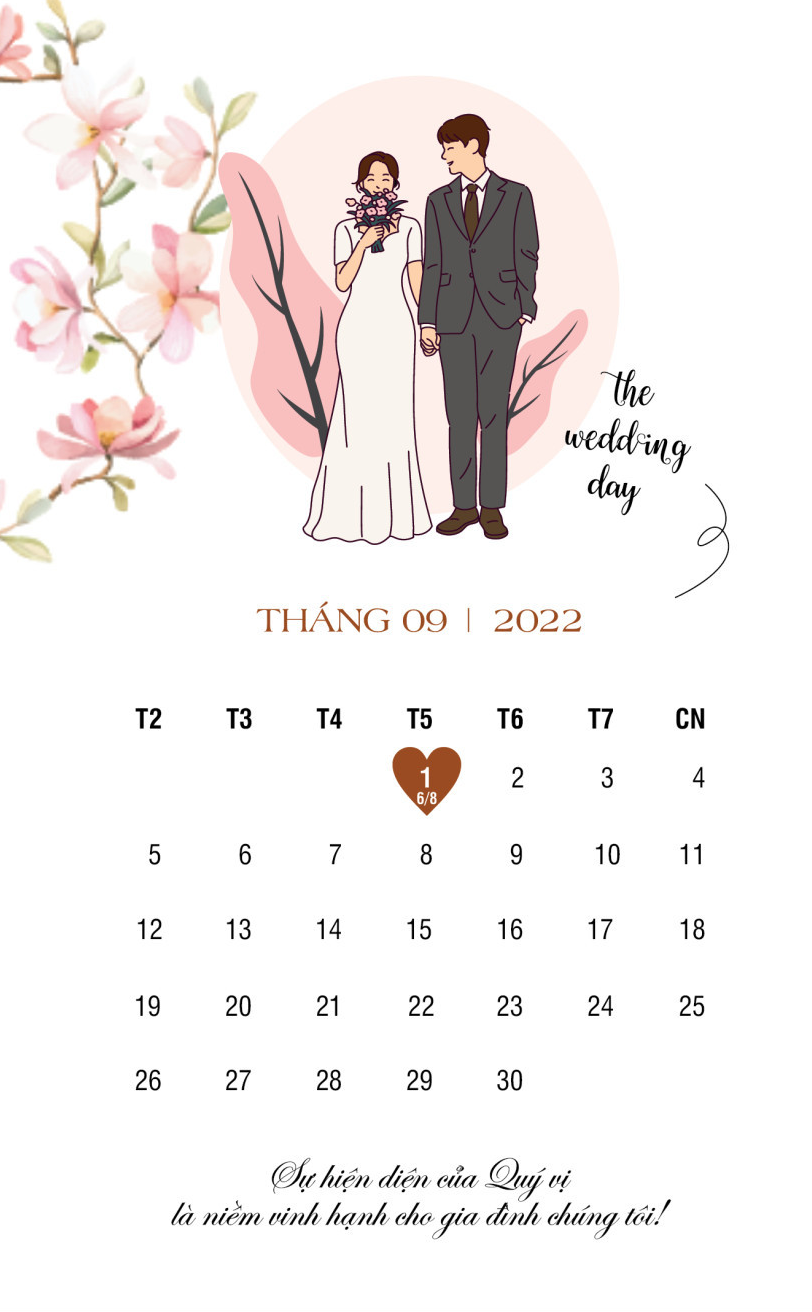
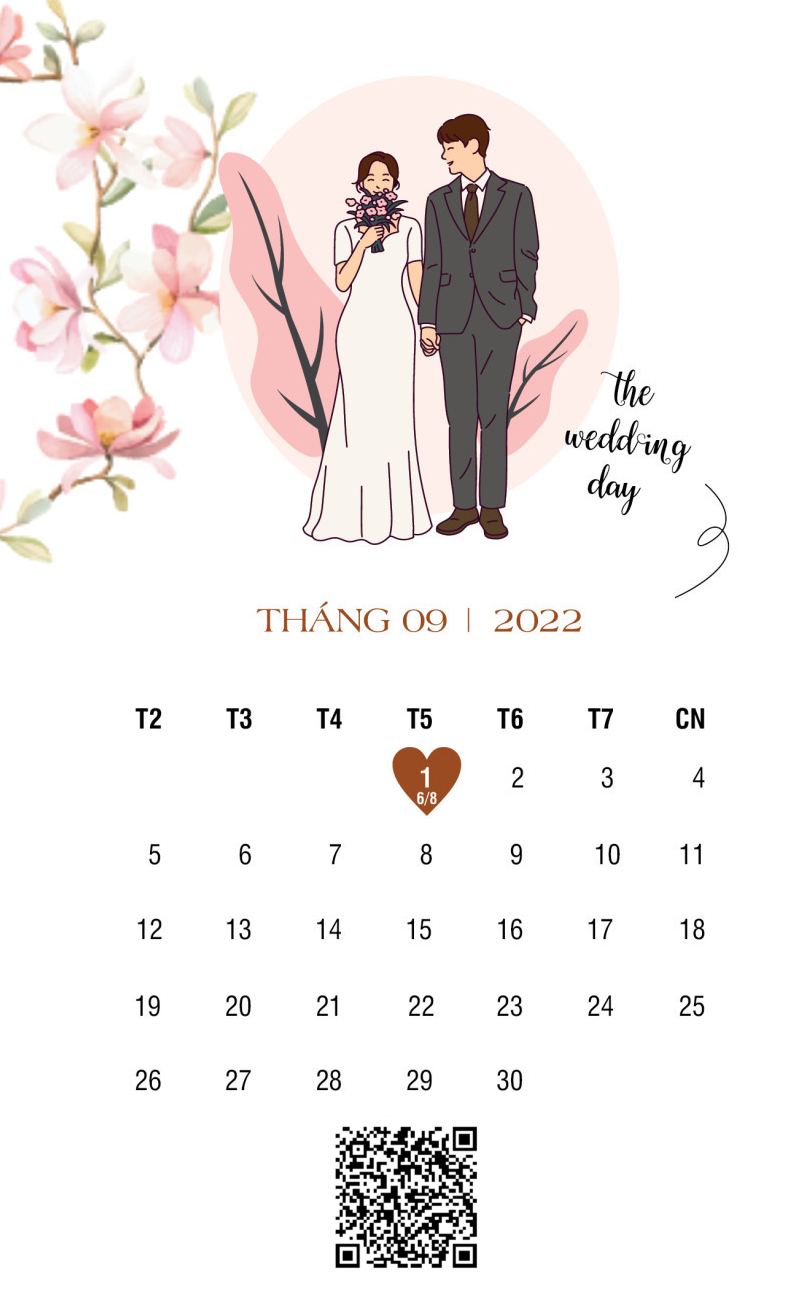
update

Changed region(s): [[0.2155, 0.8438, 0.8313, 0.9688]]

diff --git a/src/components/schedule/index.js b/src/components/schedule/index.js
@@ -6,32 +6,32 @@ const Schedule = () => {
       <div className="timeline">
         <div className="container right">
           <div className="content">
-            <h2 className="dark:text-black">8h20 9/4/2022</h2>
-            <p className="dark:text-black">Xuất phát dẫn lễ</p>
+            <h2 className="dark:text-black">17h00 - 19h45 <div><small> 31/08/2022</small></div></h2>
+            <p className="dark:text-black">Mời khách bữa cơm thân mật</p>
           </div>
         </div>
         <div className="container left">
           <div className="content">
-            <h2 className="dark:text-black">16h 9/4/2022</h2>
-            <p className="dark:text-black">Mời khách ăn bữa cơm thân mật</p>
+            <h2 className="dark:text-black">20h00 - 21h00 <div><small> 31/08/2022</small></div></h2>
+            <p className="dark:text-black">Tổ chức qua nhà gái quẩy</p>
           </div>
         </div>
         <div className="container right">
           <div className="content">
-            <h2 className="dark:text-black">11h20 10/4/2022</h2>
+            <h2 className="dark:text-black">21h00 - 24h00 <div><small> 31/08/2022</small></div></h2>
+            <p className="dark:text-black">Chia tay lễ độc thân</p>
+          </div>
+        </div>
+        <div className="container left">
+          <div className="content">
+            <h2 className="dark:text-black">08h00 - 10h00<div><small> 01/09/2022</small></div></h2>
+            <p className="dark:text-black">Mời khách bữa cơm thân mật</p>
+          </div>
+        </div>
+        <div className="container right">
+          <div className="content">
+            <h2 className="dark:text-black">10h15 - 12h00 <div><small> 01/09/2022</small></div> </h2>
             <p className="dark:text-black">Tổ chức đón dâu</p>
-          </div>
-        </div>
-        <div className="container left">
-          <div className="content">
-            <h2 className="dark:text-black">12h20 10/4/2022</h2>
-            <p className="dark:text-black">Tổ chức lễ xin dâu/ vu quy</p>
-          </div>
-        </div>
-        <div className="container right">
-          <div className="content">
-            <h2 className="dark:text-black">13h50 10/4/2022</h2>
-            <p className="dark:text-black">Tổ chức lễ thành hôn</p>
           </div>
         </div>
       </div>

diff --git a/public/index.html b/public/index.html
@@ -12,15 +12,15 @@
   <meta name="email" content="nguyenbv1994@gmail.com" />
   <meta name="copyright" content="Nguyễn loki 2022" />
   <meta property="og:type" content="website" />
-  <meta property="og:title" content="Lễ vu quy | 31/08/2022 | Nguyễn Văn Hoà" />
+  <meta property="og:title" content="Lễ thành hôn | 31/08/2022 | Nguyễn Văn Hoà" />
   <meta property="og:url" content="" />
-  <meta property="og:site_name" content="Lễ vu quy | 31/08/2022" />
+  <meta property="og:site_name" content="Lễ thành hôn | 31/08/2022" />
   <meta property="og:description" content="Mời bạn tới tham dự tiệc cưới của chúng tôi" />
   <meta property="og:url" content="" />
-  <meta property="og:site_name" content="Lễ vu quy | 31/08/2022" />
+  <meta property="og:site_name" content="Lễ thành hôn | 31/08/2022" />
   <meta name="twitter:card" content="website">
-  <meta name="twitter:site" content="Lễ vu quy | 31/08/2022">
-  <meta name="twitter:title" content="Lễ vu quy | 31/08/2022">
+  <meta name="twitter:site" content="Lễ thành hôn | 31/08/2022">
+  <meta name="twitter:title" content="Lễ thành hôn | 31/08/2022">
   <meta name="twitter:description" content="Mời bạn tới tham dự tiệc cưới của chúng tôi">
   <meta name="twitter:creator" content="@nguyenhero">
   <link rel="apple-touch-icon" href="%PUBLIC_URL%/logo192.png" />
@@ -39,7 +39,7 @@
       work correctly both with client-side routing and a non-root public URL.
       Learn how to configure a non-root public URL by running `npm run build`.
     -->
-  <title>Lễ vu quy | 31/08/2022 Hoà & Hay</title>
+  <title>Lễ thành hôn | 31/08/2022 Hoà & Hay</title>
 </head>
 
 <body>

diff --git a/src/App.jsx b/src/App.jsx
@@ -4,7 +4,7 @@ import Album from "./components/album";
 import Map from "./components/map";
 import Info from "./components/info";
 import { useRef, useState, useEffect } from "react";
-// import Schedule from "./components/schedule";
+import Schedule from "./components/schedule";
 import Contact from "./components/contact";
 import Invitation from "./components/invitation";
 
@@ -140,7 +140,7 @@ function App() {
             />
             <span>Album ảnh</span>
           </div>
-          {/* <div
+          <div
             className="item"
             role="button"
             aria-hidden="true"
@@ -151,7 +151,7 @@ function App() {
               src="https://img.icons8.com/color/48/ffffff/google-calendar--v1.png"
             />
             <span>Hành trình</span>
-          </div> */}
+          </div>
           <div
             className="item"
             role="button"
@@ -210,12 +210,12 @@ function App() {
         <div className="element page2" ref={homeRef}>
           <Invitation page="2" />
         </div>
-        {/* <div className="element">
+        <div className="element">
           <div className="block-tile" ref={scheduleRef}>
             Hành trình
           </div>
           <Schedule />
-        </div> */}
+        </div>
         <div className="element " ref={contactRef}>
           <div className="block-tile"> Liên hệ</div>
           <Contact />

diff --git a/src/components/map/index.js b/src/components/map/index.js
@@ -9,8 +9,8 @@ const FIXED_POINT = [
     id: 1,
     name: "Nhà trai",
     location: "Ngô Thôn - Xuân Lai - Gia Bình - Bắc Ninh",
-    latitude: 21.051291368432317,
-    longitude: 106.21109957074654,
+    latitude:  21.0512610,
+    longitude: 106.2120079,
     code: "1",
     src: "images/points/point.png",
   },
@@ -18,8 +18,8 @@ const FIXED_POINT = [
     id: 2,
     name: "Nhà gái",
     location: "Ngăm Lương - Lãng Ngâm - Gia Bình - Bắc Ninh",
-    latitude: 21.070204127033524,
-    longitude: 106.1360620662975,
+    latitude: 21.0720770,
+    longitude: 106.1348190,
     code: "2",
     src: "images/points/point.png",
   },

diff --git a/src/components/invitation/index.js b/src/components/invitation/index.js
@@ -84,7 +84,7 @@ const Invitation = ({ page = 1 }) => {
   return (
     <div>
       <div id={"invitation" + page} className="invitation">
-        <canvas id={"myCanvas" + page}></canvas>
+        <canvas id={"myCanvas" + page}></canvas> 
       </div>
     </div>
   );

diff --git a/src/components/invitation/index.scss b/src/components/invitation/index.scss
@@ -12,4 +12,10 @@
     width: 100%;
     text-align: center;
   }
+  .img-qr{
+    position: absolute;
+    width: 50px;
+    height: 50px;
+    bottom: 0;
+}
 }
